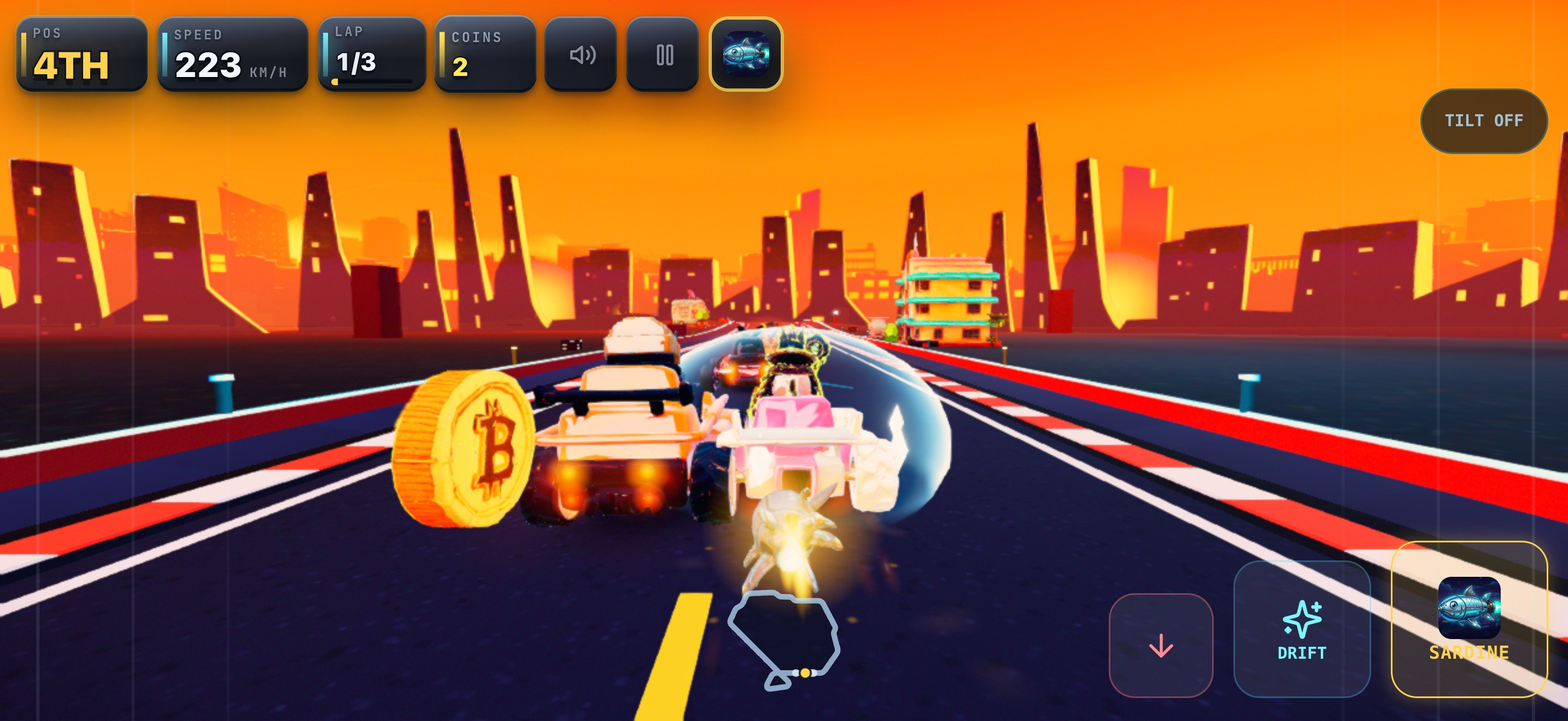
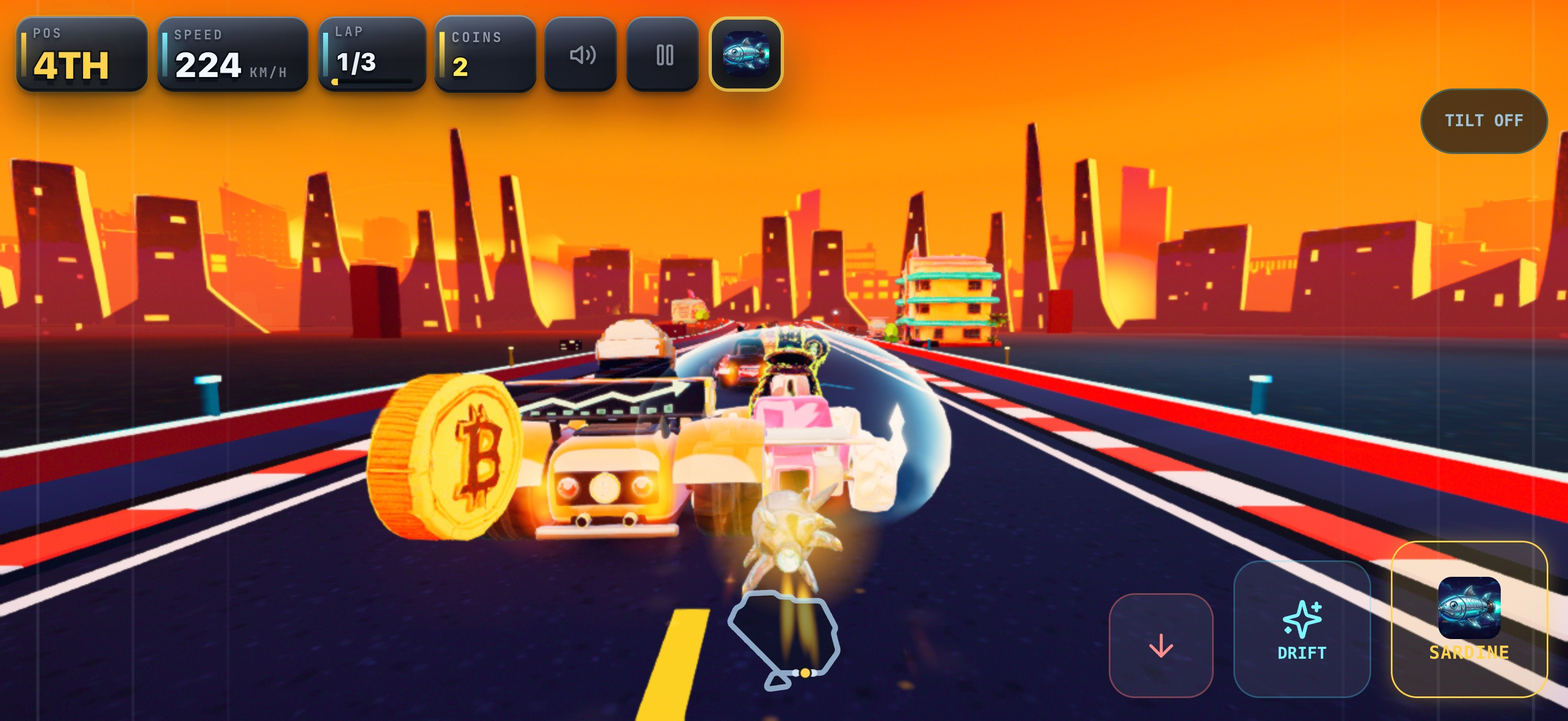
Store set (iPhone): slots 2-9 re-taken with the rebuilt karts
Owner 2026-11-24. New desktop Chromium takes at 2868x1320 on the build with
the seven rebuilt karts, the Ice Sled fix and Seth's ice-cyan colour. The
Comeback City scene is shot at 11 s instead of 9 s (a rival sat on top of
the player's kart at 9 s). Key art (slot 1) and the iPad folder unchanged.
Order still not confirmed by the owner. Not captured on a device. No app
files changed.

diff --git a/docs/APP_STORE_LISTING.md b/docs/APP_STORE_LISTING.md
@@ -148,9 +148,16 @@ Review page with every take: https://claude.ai/artifact/QNDcYWVPtBAQ3oygHT5rua
 (slot 1, the white kart render at 2868 x 1320; **not in the folder yet**,
 waiting for the owner to approve Seth's proportions). Every gameplay shot
 follows except `01-race-setup`, which the owner rejected ("cheap looking
-cart"). `store/app-store-screenshots/iphone-6.9/` now holds slots 2 to 9
-from the 2026-11-11 takes, in the 2026-10-22 order with the start grid (02)
-and launch (06) added at the end. The owner has not confirmed this order.
+cart"). `store/app-store-screenshots/iphone-6.9/` holds slots 2 to 9, in the
+2026-10-22 order with the start grid (02) and launch (06) added at the end.
+The owner has not confirmed this order.
+
+**Re-taken 2026-11-24** (owner: "Now, on desktop"): slots 2 to 9 are new
+takes from desktop Chromium at 2868 x 1320, quality-92 JPEGs, on the build
+with the seven rebuilt karts (Block Reward included), the Ice Sled fix and
+Seth's ice-cyan colour. Slot 4 (Comeback City) is shot at race time 11 s
+instead of 9 s, because at 9 s a rival's sled sat on top of the player's
+kart. Slot 1 (key art) is unchanged. Not captured on a device.
 The `ipad-13` folder is unchanged (2026-10-21 takes, not needed for V1).
 
 Current iPhone takes (nine shots, re-taken 2026-11-11 on the current code):
